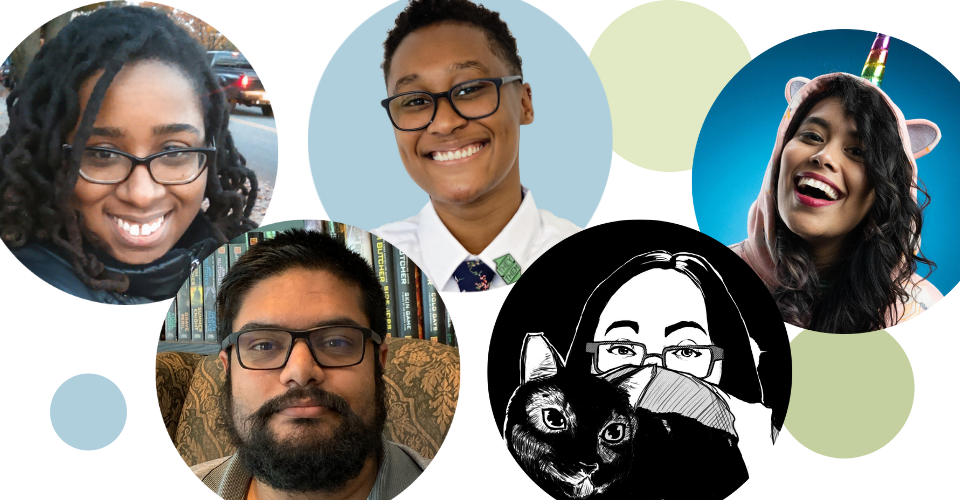
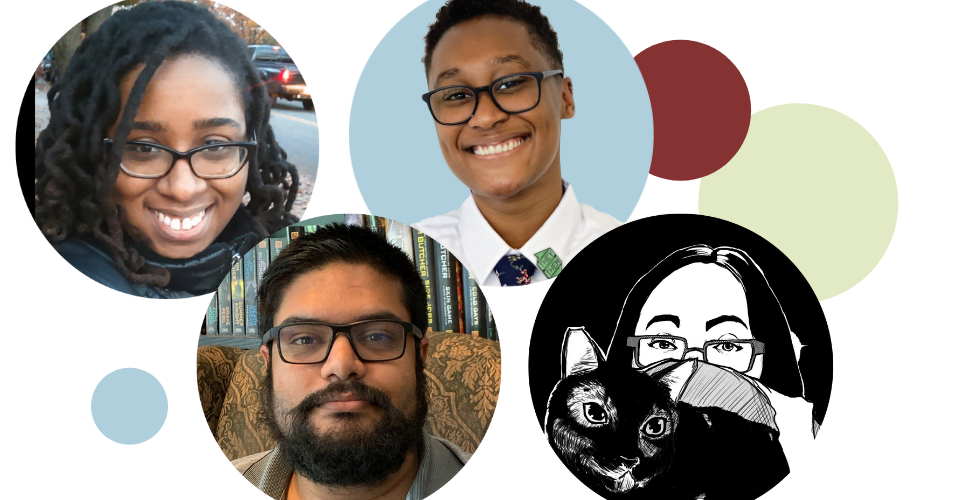
content: image update and upped screenshot cachebuster date to include minutes

diff --git a/.eleventy.js b/.eleventy.js
@@ -130,7 +130,7 @@ module.exports = (eleventyConfig) => {
   // Add date for og cachebuster
   eleventyConfig.addFilter("ogCacheBuster", (text) => {
     const today = new Date();
-    const date = dayjs(today).format("YYYYMMDD");
+    const date = dayjs(today).format("YYYYMMDDHHmm");
     return text + "_" + date
   })
   
